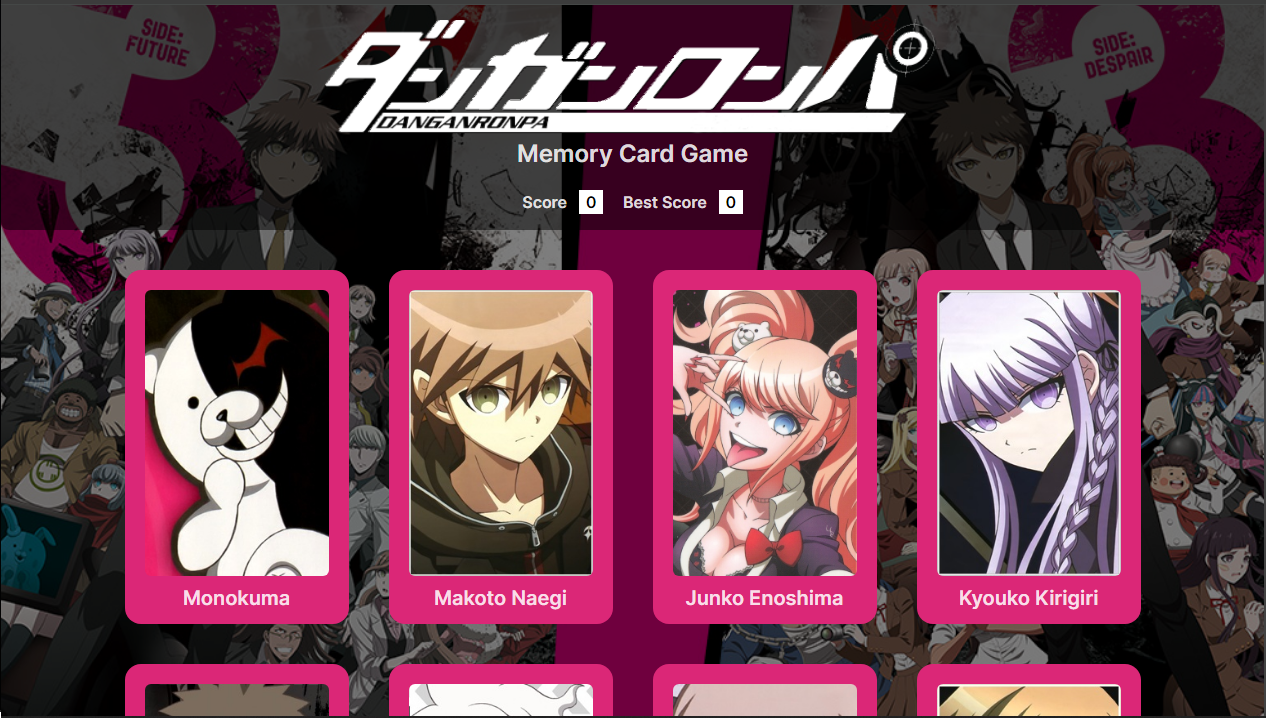
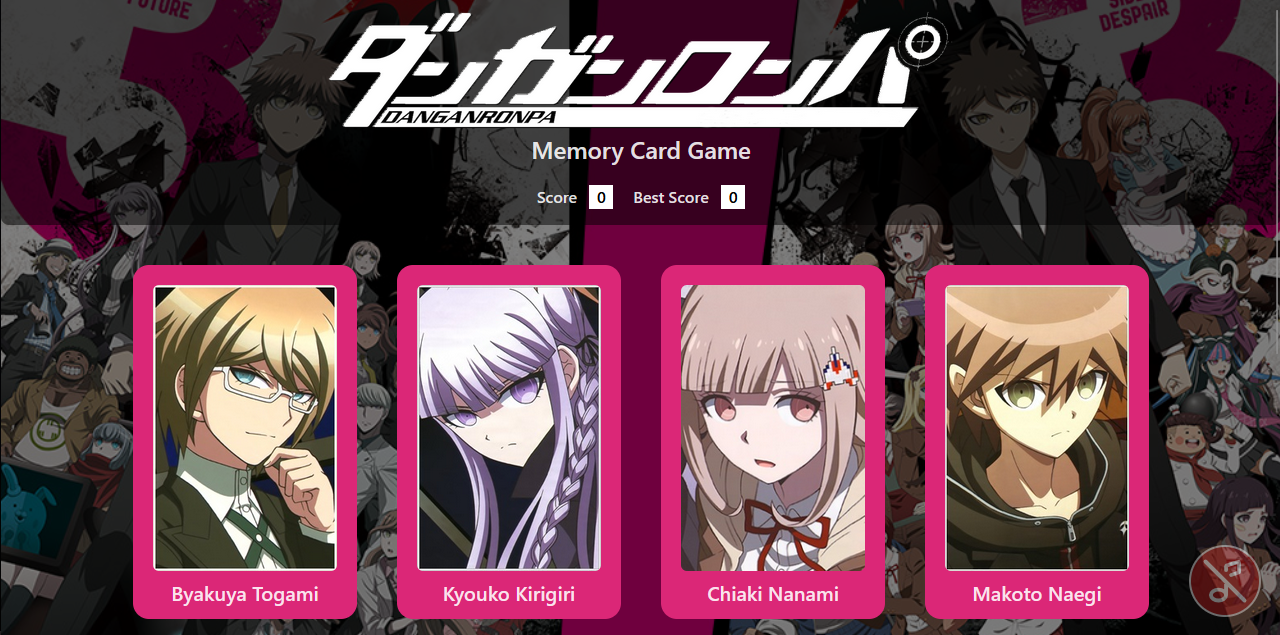
Update Readme

diff --git a/README.md b/README.md
@@ -8,6 +8,10 @@ The score increases when each card being clicked, and the 'Best Score' keeps tra
 
 _Desktop Preview_
 
+<img src="public/desktop-game-clear.png" alt="Desktop Game Clear Preview" width="100%">
+
+_Desktop Game Clear Preview_
+
 <img src="public/1_mobile-memory-game.png" alt="Mobile Preview 1" width="50%">
 
 _Mobile Preview 1_
@@ -24,6 +28,7 @@ This game uses anime/game characters from Danganronpa 1 & 2 (technically also 3)
 
 1. A board game that contained 8 cards to get clicked.
 2. Current score and best score in every round.
+3. Game clear screen when all cards have been guessed correctly.
 
 ## Features 🚀
 
@@ -31,6 +36,8 @@ This game uses anime/game characters from Danganronpa 1 & 2 (technically also 3)
 - If the user clicks a card and get same one as an old one, the game round will end and the score will reset back to 0. The user can start again while keeping the best score from the last round.
 - As current round best score is bigger than older one, it will be updated with the bigger one.
 - Auto scroll to the top when the game round is over.
+- Background music and toggle sound button.
+- If the user has guessed correctly all cards, it will display game clear screen.
 
 ## Installation 🛠
 
